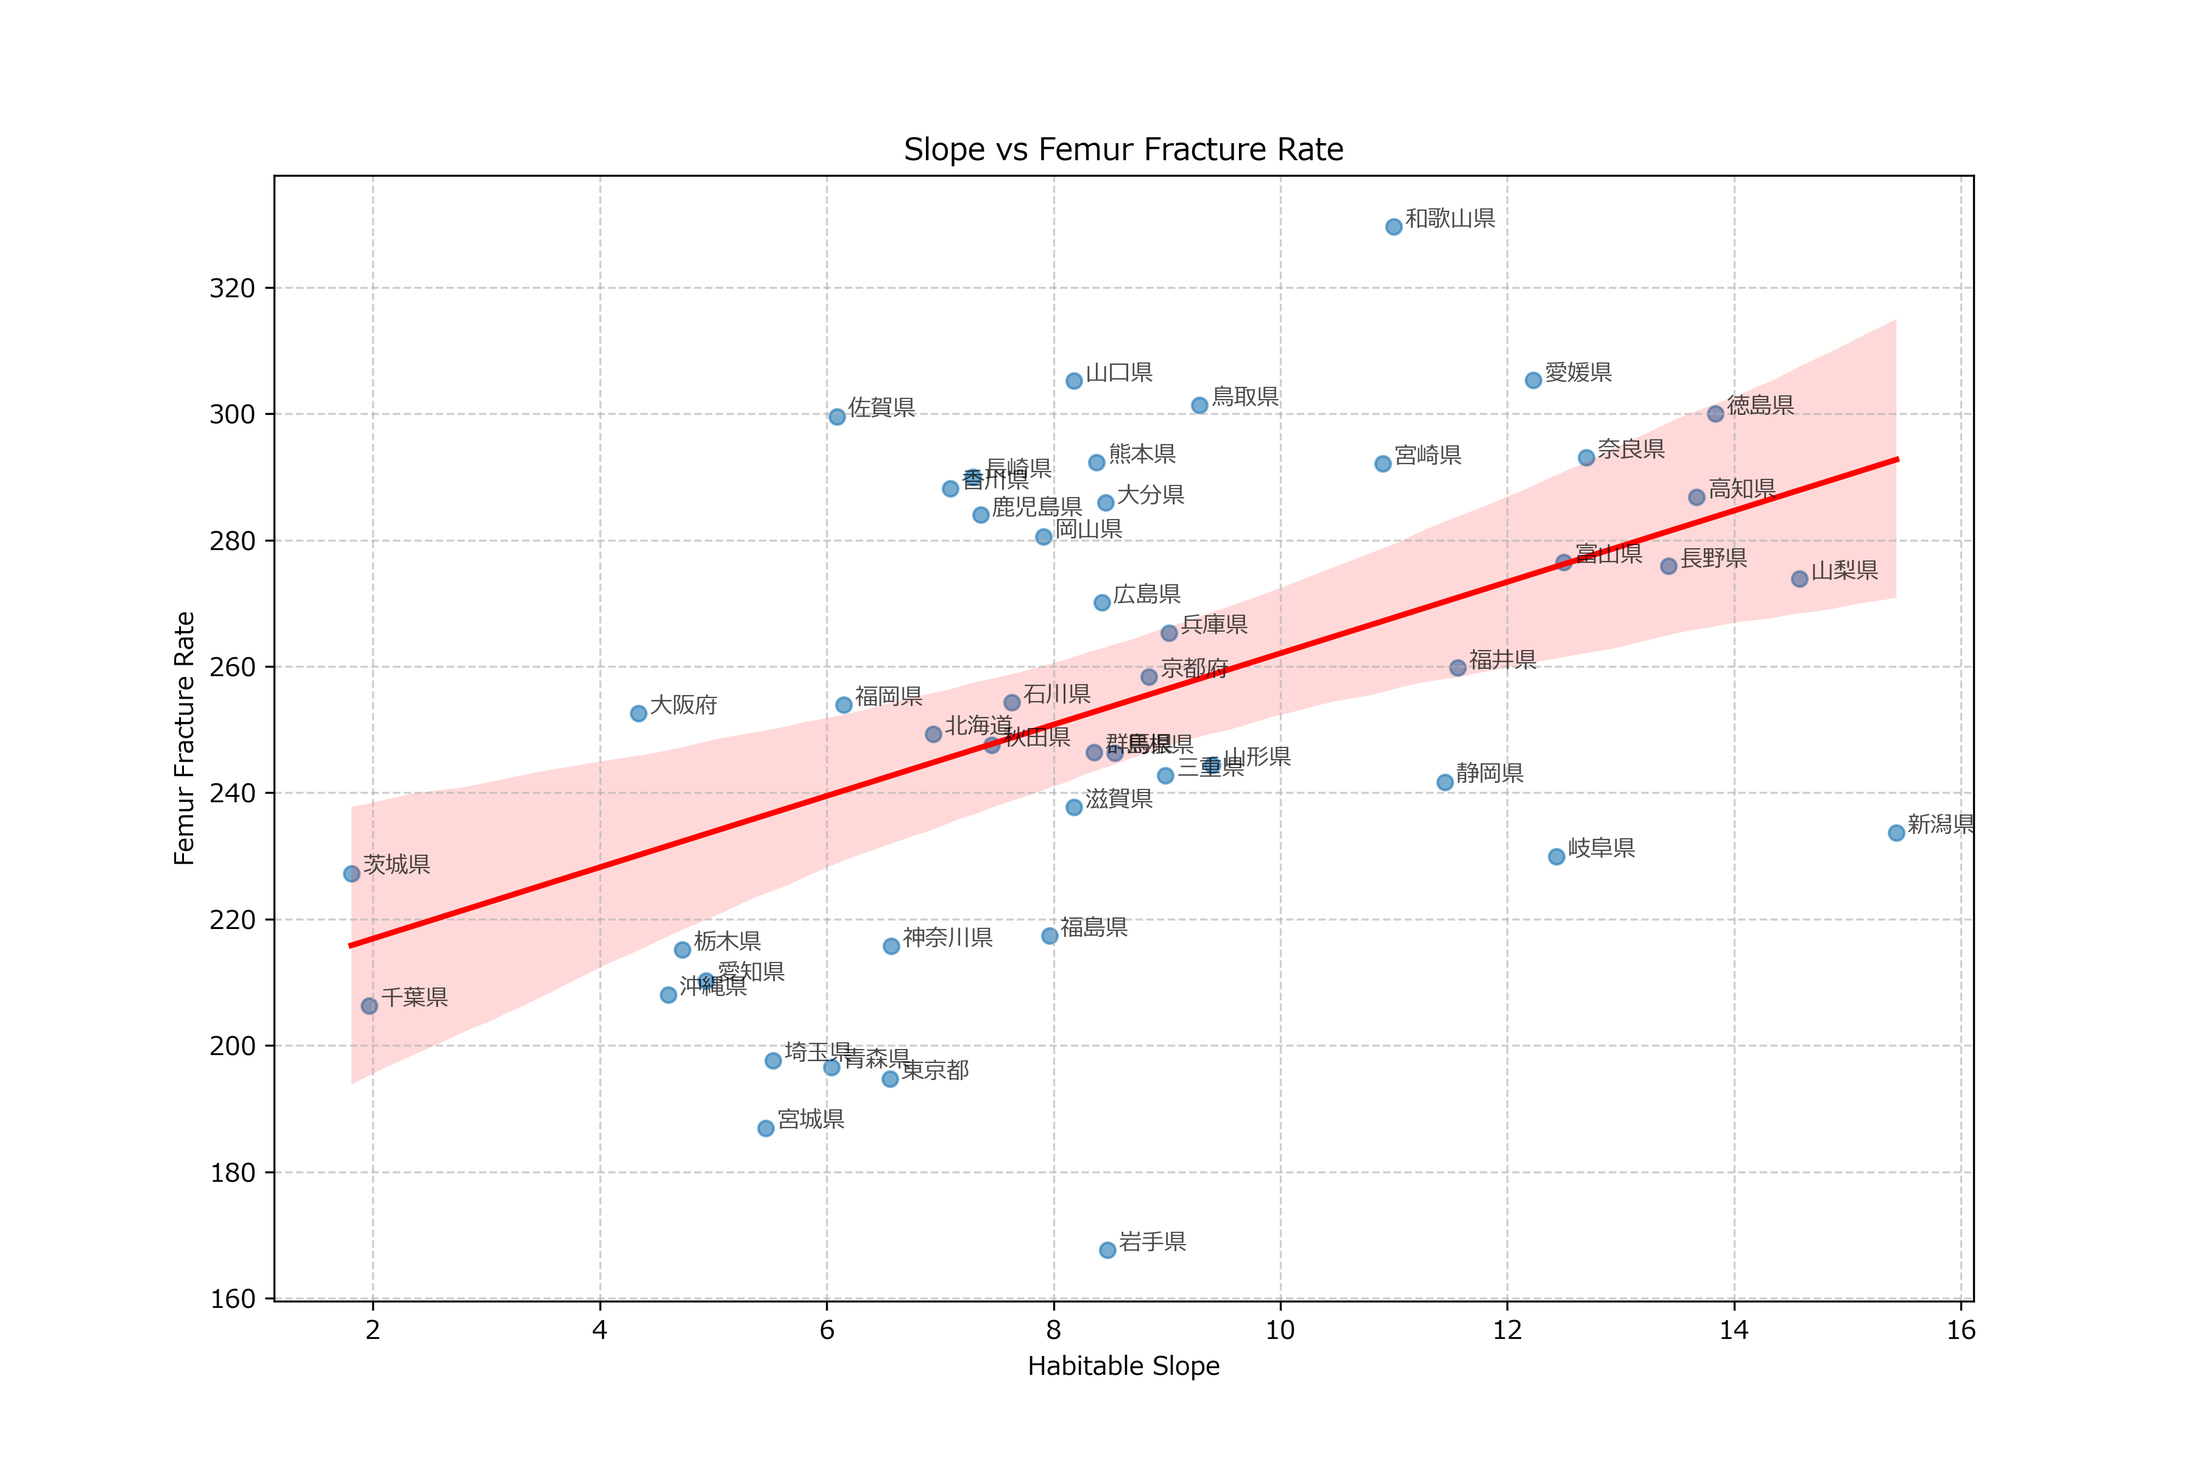
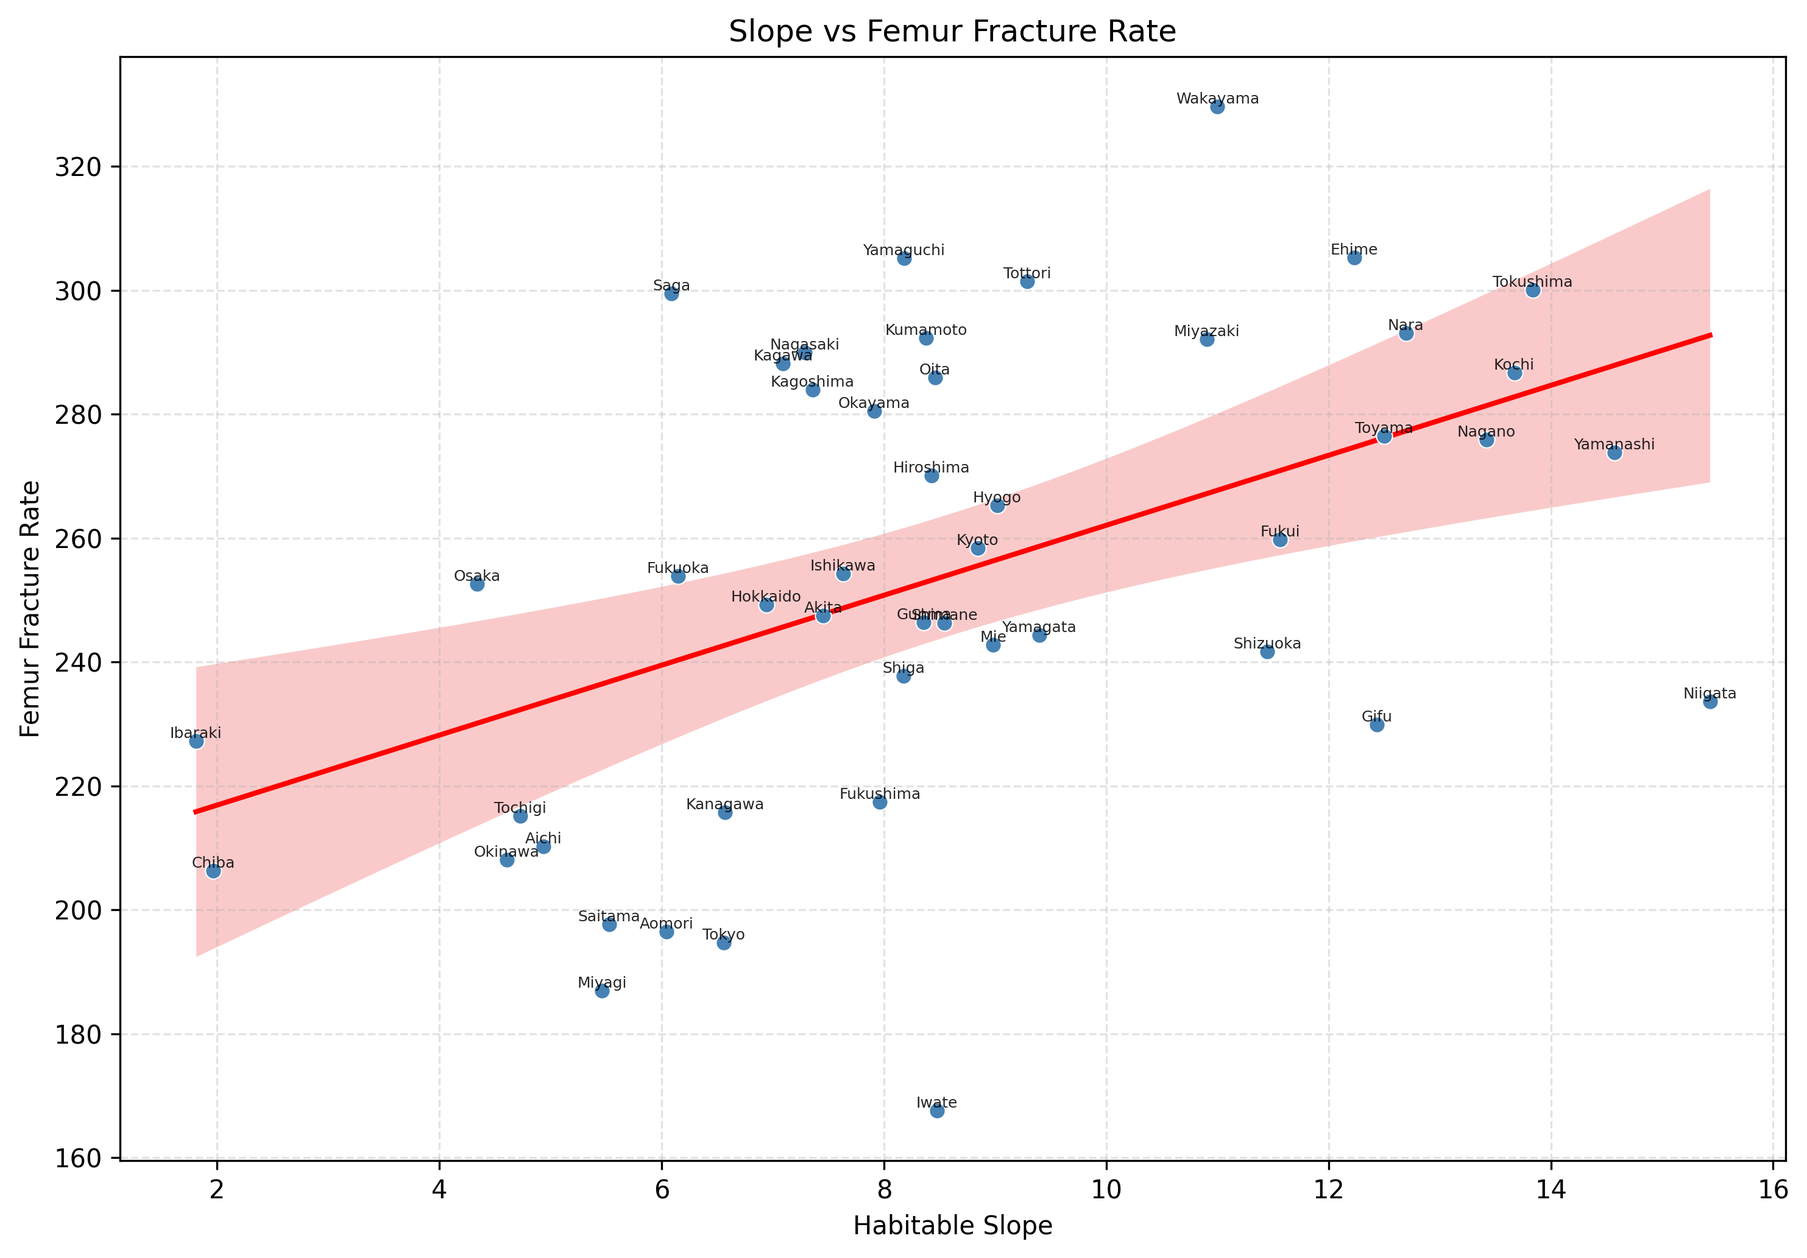
Add English-label Figure 1 PNG and helper scripts for manuscript revision
Made-with: Cursor

diff --git a/04_Manuscripts/_apply_manuscript_edits.py b/04_Manuscripts/_apply_manuscript_edits.py
@@ -1,0 +1,236 @@
+# -*- coding: utf-8 -*-
+"""Apply supervisor 10-point edits + safe reference renumbering (SharedWorkspace path only)."""
+from __future__ import annotations
+
+import re
+from pathlib import Path
+
+BASE = Path(r"c:\Users\user\SharedWorkspace\projects\NDB_Research_Hub\projects\NDB_XXX_slope_fracture\04_Manuscripts")
+SRC = BASE / "Manuscript_slope_fracture.qmd.backup"
+OUT = BASE / "Manuscript_slope_fracture.qmd"
+
+REMOVED = {
+    14, 23, 29, 34, 37, 38, 39, 41, 43,
+    47, 48, 49, 50,
+    53, 54, 55, 63, 64,
+}
+
+
+def split_three_parts(text: str) -> tuple[str, str, str]:
+    """Return (pre_refs, ref_block_from_heading, tail_from_tables_separator)."""
+    idx = text.index("\n# References\n")
+    pre = text[:idx]
+    rest = text[idx + 1 :]  # starts with # References\n
+    m2 = re.search(r"\n---\n\n\n\n# Tables and Figures", rest)
+    if not m2:
+        raise SystemExit("missing tables marker")
+    ref_block = rest[: m2.start()]
+    tail = rest[m2.start() :]
+    return pre, ref_block, tail
+
+
+def parse_refs(ref_block: str) -> dict[int, str]:
+    d: dict[int, str] = {}
+    for line in ref_block.splitlines(keepends=True):
+        if re.match(r"^\d+\)\s", line):
+            d[int(line.split(")", 1)[0])] = line
+    return d
+
+
+def protect_sample_sizes(s: str) -> tuple[str, list[str]]:
+    keys: list[str] = []
+
+    def repl(m: re.Match[str]) -> str:
+        keys.append(m.group(0))
+        return f"«S{len(keys) - 1}»"
+
+    out = re.sub(r"\(N\s*=\s*\d+\)", repl, s)
+    return out, keys
+
+
+def unprotect(s: str, keys: list[str]) -> str:
+    for i, k in enumerate(keys):
+        s = s.replace(f"«S{i}»", k)
+    return s
+
+
+def strip_removed_citations(body: str) -> str:
+    for rid in sorted(REMOVED, reverse=True):
+        body = re.sub(rf",\s*{rid}\),\s*", ", ", body)
+        body = re.sub(rf"(?<=\)){rid}\),\s*", "", body)
+        body = re.sub(rf"(?<![0-9]){rid}\),\s*", "", body)
+        body = re.sub(rf",\s*{rid}\)(?=[\s.])", "", body)
+        body = re.sub(rf"(?<![0-9]){rid}\)(?=[\s\n])", "", body)
+    body = re.sub(r",\s*,", ",", body)
+    body = re.sub(r"\(\s*,", "(", body)
+    body = re.sub(r",\s*\)", ")", body)
+    return body
+
+
+def renumber_body(body: str, old_to_new: dict[int, int]) -> str:
+    # Allow citations immediately after letters (e.g., "...risk16), 17)")
+    cite = re.compile(
+        r"(?:^|(?<=[^0-9]))([1-9]|[1-5][0-9]|6[0-6])\)(?=[,\s.\n]|$)"
+    )
+
+    def repl(m: re.Match[str]) -> str:
+        n = int(m.group(1))
+        newn = old_to_new.get(n)
+        if newn is None:
+            return m.group(0)
+        return f"{newn})"
+
+    return cite.sub(repl, body)
+
+
+def edit_pre_refs(pre: str) -> str:
+    # ① Main Findings closing sentence
+    pre = pre.replace(
+        "This association was specific to hip fractures and was not observed for humerus or forearm fractures.\n\n## 2. Biological Plausibility",
+        "This association was specific to hip fractures and was not observed for humerus or forearm fractures. Together, these findings suggest that, at the population level, steeper habitable terrain tracks hip-specific surgical burden beyond compositional aging and self-reported walking pace, consistent with outdoor environments amplifying lateral-fall mechanisms rather than raising fracture risk indiscriminately across skeletal sites.\n\n## 2. Biological Plausibility",
+    )
+    # Methods ⑧ companion
+    pre = pre.replace(
+        "We first examined the distribution of all variables using descriptive statistics (mean, SD, median, range).",
+        "We first examined the distribution of all variables using descriptive statistics (mean, SD, minimum, and maximum).",
+    )
+    # ② Role of aging — remove Japan-only block, keep double burden
+    pre = pre.replace(
+        "populations.44), 45), 46) Since the high economic growth period of the 1960s, labor-age youth have continuously migrated from mountainous areas in Shikoku, Chugoku, and inland Kyushu toward urban plains (Tokyo, Osaka-Kyoto-Kobe), leaving behind an aging residual population.45), 47)\n\nThis outmigration has led to the emergence of \"Genkai-shuraku\" (marginal villages), defined as communities where more than 50% of residents are aged 65 or older and basic community functions are severely impaired.48), 49) In these depopulated mountainous settlements (Kaso), public transportation, healthcare infrastructure (including orthopedic surgeon availability), snow removal services, and social support networks have deteriorated or collapsed entirely.49), 50) Older adults in these high-slope prefectures thus face a double burden:",
+        "populations.44), 45), 46) Older adults in these high-slope prefectures thus face a double burden:",
+    )
+    # ③④⑤ Conclusions shorten
+    pre = pre.replace(
+        "consistent with the biomechanical literature demonstrating that lateral falls on inclined terrain specifically increase impact loading to the greater trochanter.\n\nOur findings align with international ecological evidence from Norway (NOREPOS) and China (CHARLS), establishing terrain slope as a globally relevant environmental risk factor for hip fracture. In the context of Japan's accelerating rural aging and depopulation of mountainous areas (Kaso, Genkai-shuraku), these results highlight the double burden faced by older adults in high-slope prefectures: chronic exposure to biomechanically challenging terrain compounded by social isolation and healthcare infrastructure decline.\n\nThese findings have direct policy implications. Topographic characteristics should be incorporated into community-level fracture prevention strategies, with prioritization of resources toward high-slope prefectures. Japan's \"Active Guide\" physical activity recommendations require environment-specific adaptation for mountainous regions, integrating balance training, anti-slip footwear, outdoor handrail installation, and pedestrian infrastructure design that explicitly accounts for slope gradient. Given the irreversible demographic shift toward an aging society and the escalating economic burden of hip fracture care (exceeding 1,000 billion yen annually), upstream environmental interventions targeting terrain-related hazards represent a cost-effective public health strategy.\n\nFuture studies",
+        "consistent with the biomechanical literature demonstrating that lateral falls on inclined terrain specifically increase impact loading to the greater trochanter.\n\nFuture studies",
+    )
+    return pre
+
+
+def apply_consolidations(pre: str) -> str:
+    pre = pre.replace(
+        "Previous studies have demonstrated that environmental terrain features are associated with physical activity levels and walking speed in community-dwelling older adults.14), 15)",
+        "Previous studies have demonstrated that environmental terrain features are associated with physical activity levels and walking speed in community-dwelling older adults.15)",
+    )
+    pre = pre.replace(
+        "elevated hip fracture risk,21), 22), 23) but",
+        "elevated hip fracture risk,21), 22) but",
+    )
+    pre = pre.replace(
+        "compared to those in flat coastal regions.21), 38), 39)",
+        "compared to those in flat coastal regions.21)",
+    )
+    pre = pre.replace(
+        "amplified this geographic risk,40), 41)",
+        "amplified this geographic risk,40)",
+    )
+    pre = pre.replace(
+        "among overweight individuals and women.22), 23)",
+        "among overweight individuals and women.22)",
+    )
+    pre = pre.replace(
+        "fracture risk.42), 43)",
+        "fracture risk.42)",
+    )
+    pre = pre.replace(
+        "In Japan, Nakamura et al. reported that outdoor activity and terrain characteristics influenced walking speed and muscle strength in community-dwelling older adults in mountainous regions.14)",
+        "In Japan, Fujita et al. reported that frequent outdoor activity predicts physical function in rural community-dwelling older adults.15)",
+    )
+    pre = pre.replace(
+        "maximizing fracture vulnerability.28), 29)",
+        "maximizing fracture vulnerability.28)",
+    )
+    pre = pre.replace(
+        "during forward falls on flat surfaces.33), 34)",
+        "during forward falls on flat surfaces.33)",
+    )
+    pre = pre.replace(
+        "who retain arm-protective reflexes.36), 37)",
+        "who retain arm-protective reflexes.36)",
+    )
+    pre = pre.replace(
+        "sarcopenia, frailty, and mortality.16), 17), 18), 53)",
+        "sarcopenia, frailty, and mortality.16), 17), 18)",
+    )
+    pre = pre.replace(
+        "significantly elevate hip fracture incidence.17), 54)",
+        "significantly elevate hip fracture incidence.17)",
+    )
+    pre = pre.replace(
+        "on complex outdoor terrain.19), 55)",
+        "on complex outdoor terrain.19)",
+    )
+    pre = pre.replace(
+        "under the Health Japan 21 (second edition) framework.61), 62), 63)",
+        "under the Health Japan 21 (second edition) framework.61), 62)",
+    )
+    pre = pre.replace(
+        "not individual motivation alone.61), 64)",
+        "not individual motivation alone.61)",
+    )
+    return pre
+
+
+def edit_tail(tail: str) -> str:
+    # Table 1 remove Median column
+    tail = tail.replace(
+        "| Variable | Unit | N | Mean | SD | Min | Median | Max |\n| :--- | :--- | ---: | ---: | ---: | ---: | ---: | ---: |\n| **Outcome variables** | | | | | | | |\n| Total fracture surgery rate | per 100,000 | 47 | 352.75 | 54.85 | 249.22 | 356.11 | 446.68 |\n| Hip (femur) fracture surgery rate | per 100,000 | 47 | 253.99 | 37.57 | 167.61 | 253.87 | 329.62 |\n| Humerus fracture surgery rate | per 100,000 | 47 | 35.59 | 7.52 | 22.39 | 35.56 | 50.45 |\n| Forearm fracture surgery rate | per 100,000 | 47 | 63.18 | 15.59 | 33.49 | 60.84 | 106.33 |\n| **Exposure variable** | | | | | | | |\n| Habitable-area-weighted slope | degrees | 47 | 8.57 | 3.16 | 1.81 | 8.36 | 15.43 |\n| Simple mean slope | degrees | 47 | 8.28 | 2.90 | 1.88 | 8.18 | 14.22 |\n| **Covariate variables** | | | | | | | |\n| Aging rate (≥65 years) | % | 47 | 30.74 | 3.10 | 22.61 | 31.26 | 36.45 |\n| Fast walking rate | % | 47 | 48.62 | 4.34 | 29.79 | 49.23 | 57.30 |\n| Population density | persons/km² | 47 | 657 | 1,223 | 62.63 | 265.44 | 6,402.64 |",
+        "| Variable | Unit | N | Mean | SD | Min | Max |\n| :--- | :--- | ---: | ---: | ---: | ---: | ---: |\n| **Outcome variables** | | | | | | |\n| Total fracture surgery rate | per 100,000 | 47 | 352.75 | 54.85 | 249.22 | 446.68 |\n| Hip (femur) fracture surgery rate | per 100,000 | 47 | 253.99 | 37.57 | 167.61 | 329.62 |\n| Humerus fracture surgery rate | per 100,000 | 47 | 35.59 | 7.52 | 22.39 | 50.45 |\n| Forearm fracture surgery rate | per 100,000 | 47 | 63.18 | 15.59 | 33.49 | 106.33 |\n| **Exposure variable** | | | | | | |\n| Habitable-area-weighted slope | degrees | 47 | 8.57 | 3.16 | 1.81 | 15.43 |\n| Simple mean slope | degrees | 47 | 8.28 | 2.90 | 1.88 | 14.22 |\n| **Covariate variables** | | | | | | |\n| Aging rate (≥65 years) | % | 47 | 30.74 | 3.10 | 22.61 | 36.45 |\n| Fast walking rate | % | 47 | 48.62 | 4.34 | 29.79 | 57.30 |\n| Population density | persons/km² | 47 | 657 | 1,223 | 62.63 | 6,402.64 |",
+    )
+    # ⑩ Figure 3 remove + renumber
+    tail = tail.replace(
+        "**Figure 1.** Scatter plot showing the association between habitable-area-weighted terrain slope (degrees) and hip fracture surgery rate (per 100,000 population) across 47 Japanese prefectures. Each point represents one prefecture. The solid line represents the simple linear regression fit.\n\n**Figure 2.**",
+        "**Figure 1.** Scatter plot showing the association between habitable-area-weighted terrain slope (degrees) and hip fracture surgery rate (per 100,000 population) across 47 Japanese prefectures. Each point represents one prefecture, labeled with the prefecture name in English. The solid line represents the simple linear regression fit.\n\n**Figure 2.**",
+    )
+    tail = tail.replace(
+        "**Figure 3.** Scatter matrix showing pairwise relationships among terrain slope, hip fracture rate, aging rate, and fast walking rate across 47 Japanese prefectures.\n\n**Figure 4.**",
+        "**Figure 3.**",
+    )
+    tail = tail.replace(
+        "**Figure 5.** Prefectural distribution of hip fracture surgery rate",
+        "**Figure 4.** Prefectural distribution of hip fracture surgery rate",
+    )
+    tail = tail.replace(
+        "**Figure 6.** Bivariate choropleth map",
+        "**Figure 5.** Bivariate choropleth map",
+    )
+    tail = tail.replace(
+        "## Figure 3\n\n![](../03_Analysis/results/figures/scatter_matrix.png)\n\n## Figure 4\n",
+        "## Figure 3\n",
+    )
+    tail = tail.replace("## Figure 5\n", "## Figure 4\n")
+    tail = tail.replace("## Figure 6\n", "## Figure 5\n")
+    return tail
+
+
+def main() -> None:
+    text = SRC.read_text(encoding="utf-8")
+    pre, ref_block, tail = split_three_parts(text)
+    pre = edit_pre_refs(pre)
+    pre = apply_consolidations(pre)
+    tail = edit_tail(tail)
+
+    kept = [n for n in range(1, 67) if n not in REMOVED]
+    old_to_new = {old: i + 1 for i, old in enumerate(kept)}
+    ref_dict = parse_refs(ref_block)
+
+    pre, keys = protect_sample_sizes(pre)
+    pre = strip_removed_citations(pre)
+    pre = renumber_body(pre, old_to_new)
+    pre = unprotect(pre, keys)
+
+    new_ref_lines = []
+    for old in kept:
+        line = ref_dict[old]
+        rest = line.split(")", 1)[1].lstrip()
+        new_ref_lines.append(f"{old_to_new[old]}) {rest}")
+    new_ref_block = "# References\n\n" + "".join(new_ref_lines)
+
+    out = pre + "\n" + new_ref_block + "\n" + tail.lstrip("\n")
+    OUT.write_text(out, encoding="utf-8")
+    print("Wrote", OUT)
+    print("References:", len(kept))
+
+
+if __name__ == "__main__":
+    main()

diff --git a/03_Analysis/scripts/regen_scatter_figure1_english.py b/03_Analysis/scripts/regen_scatter_figure1_english.py
@@ -1,0 +1,118 @@
+# -*- coding: utf-8 -*-
+"""Regenerate Figure 1 scatter with English prefecture labels (supervisor comment ⑨)."""
+from __future__ import annotations
+
+from pathlib import Path
+
+import matplotlib.pyplot as plt
+import numpy as np
+import pandas as pd
+from scipy import stats
+
+# Resolve project root explicitly (avoid symlinked workspace paths).
+BASE = Path(r"c:\Users\user\SharedWorkspace\projects\NDB_Research_Hub\projects\NDB_XXX_slope_fracture\03_Analysis")
+CSV_PATH = BASE / "data" / "processed" / "analysis_dataset_v1.csv"
+OUT_PATH = BASE / "results" / "figures" / "scatter_slope_fracture.png"
+
+JP_TO_EN = {
+    "北海道": "Hokkaido",
+    "青森県": "Aomori",
+    "岩手県": "Iwate",
+    "宮城県": "Miyagi",
+    "秋田県": "Akita",
+    "山形県": "Yamagata",
+    "福島県": "Fukushima",
+    "茨城県": "Ibaraki",
+    "栃木県": "Tochigi",
+    "群馬県": "Gunma",
+    "埼玉県": "Saitama",
+    "千葉県": "Chiba",
+    "東京都": "Tokyo",
+    "神奈川県": "Kanagawa",
+    "新潟県": "Niigata",
+    "富山県": "Toyama",
+    "石川県": "Ishikawa",
+    "福井県": "Fukui",
+    "山梨県": "Yamanashi",
+    "長野県": "Nagano",
+    "岐阜県": "Gifu",
+    "静岡県": "Shizuoka",
+    "愛知県": "Aichi",
+    "三重県": "Mie",
+    "滋賀県": "Shiga",
+    "京都府": "Kyoto",
+    "大阪府": "Osaka",
+    "兵庫県": "Hyogo",
+    "奈良県": "Nara",
+    "和歌山県": "Wakayama",
+    "鳥取県": "Tottori",
+    "島根県": "Shimane",
+    "岡山県": "Okayama",
+    "広島県": "Hiroshima",
+    "山口県": "Yamaguchi",
+    "徳島県": "Tokushima",
+    "香川県": "Kagawa",
+    "愛媛県": "Ehime",
+    "高知県": "Kochi",
+    "福岡県": "Fukuoka",
+    "佐賀県": "Saga",
+    "長崎県": "Nagasaki",
+    "熊本県": "Kumamoto",
+    "大分県": "Oita",
+    "宮崎県": "Miyazaki",
+    "鹿児島県": "Kagoshima",
+    "沖縄県": "Okinawa",
+}
+
+
+def main() -> None:
+    df = pd.read_csv(CSV_PATH, encoding="utf-8")
+    df["pref_en"] = df["prefecture"].map(JP_TO_EN)
+    missing = df.loc[df["pref_en"].isna(), "prefecture"].tolist()
+    if missing:
+        raise SystemExit(f"Unmapped prefectures: {missing}")
+
+    x = df["habitable_slope_weighted"].to_numpy()
+    y = df["femur_rate"].to_numpy()
+
+    slope, intercept, _, _, _ = stats.linregress(x, y)
+    xs = np.linspace(x.min(), x.max(), 200)
+    ys = slope * xs + intercept
+    pred = slope * x + intercept
+    resid = y - pred
+    dof = max(len(x) - 2, 1)
+    mse = np.sum(resid**2) / dof
+    sxx = np.sum((x - x.mean()) ** 2)
+    se = np.sqrt(mse * (1 / len(x) + (xs - x.mean()) ** 2 / sxx))
+    tval = stats.t.ppf(0.975, dof)
+    ci = tval * se
+
+    plt.figure(figsize=(10, 7))
+    ax = plt.gca()
+    ax.fill_between(xs, ys - ci, ys + ci, color="#f8b4b4", alpha=0.7, linewidth=0)
+    ax.plot(xs, ys, color="red", linewidth=2)
+    ax.scatter(x, y, color="steelblue", s=40, zorder=3, edgecolors="white", linewidths=0.5)
+
+    for _, row in df.iterrows():
+        ax.annotate(
+            row["pref_en"],
+            (row["habitable_slope_weighted"], row["femur_rate"]),
+            fontsize=6,
+            ha="center",
+            va="bottom",
+            alpha=0.85,
+        )
+
+    ax.set_xlabel("Habitable Slope")
+    ax.set_ylabel("Femur Fracture Rate")
+    ax.set_title("Slope vs Femur Fracture Rate")
+    ax.grid(True, linestyle="--", alpha=0.35)
+    plt.tight_layout()
+    OUT_PATH.parent.mkdir(parents=True, exist_ok=True)
+    plt.savefig(OUT_PATH, dpi=300, bbox_inches="tight")
+    plt.close()
+    print("Wrote", OUT_PATH)
+
+
+if __name__ == "__main__":
+    main()
